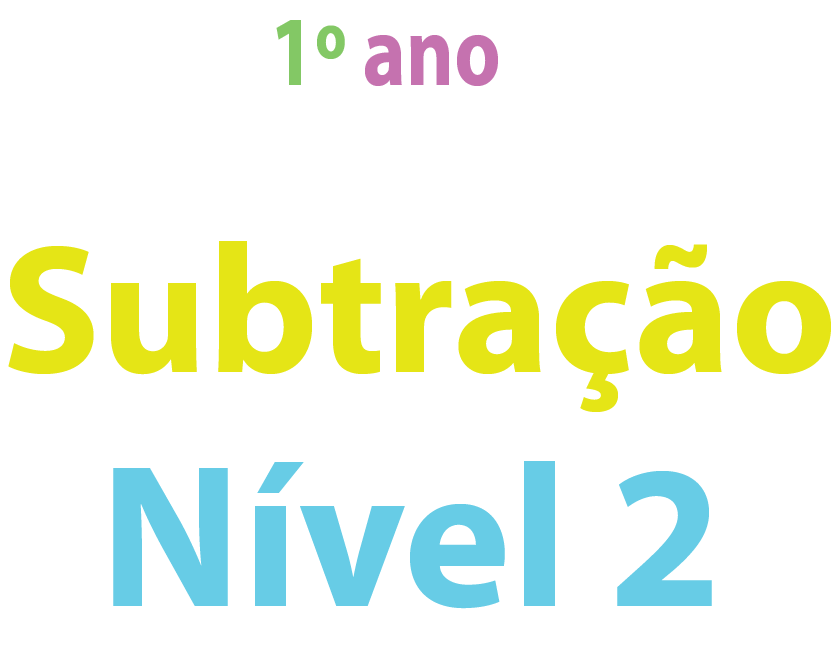
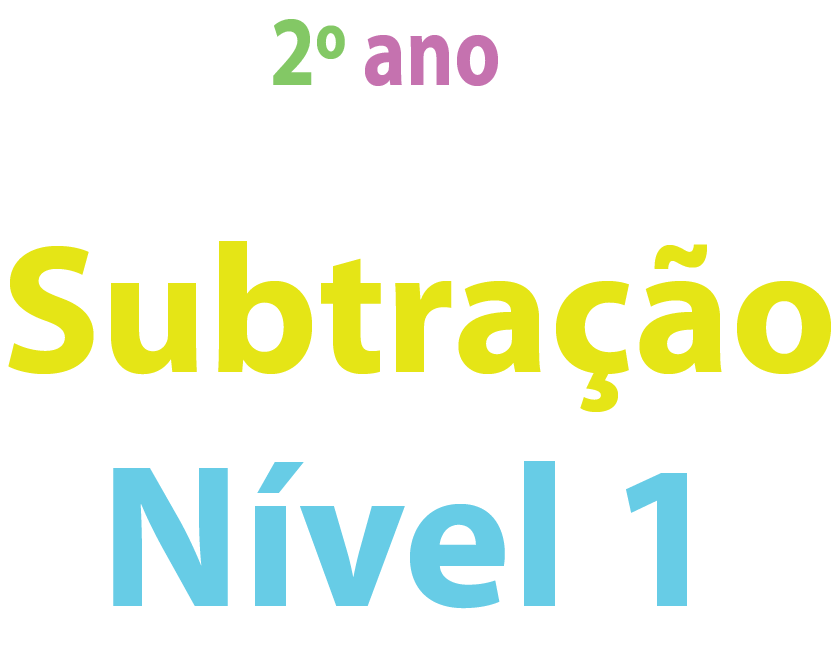
feat: imagem

Changed region(s): [[0.7136, 0.7002, 0.8687, 0.9437], [0.3103, 0.0304, 0.3723, 0.1522]]

diff --git a/index.html b/index.html
@@ -4,7 +4,7 @@
 <head>
   <meta charset="UTF-8">
   <meta name="viewport" content="width=device-width, initial-scale=1.0">
-  <title>Divisão por 1</title>
+  <title>2º Ano - Subtração - Nível 1</title>
 
   <link rel="shortcut icon" href="./favicon.ico" />
   <!-- Chrome, Firefox OS and Opera -->
